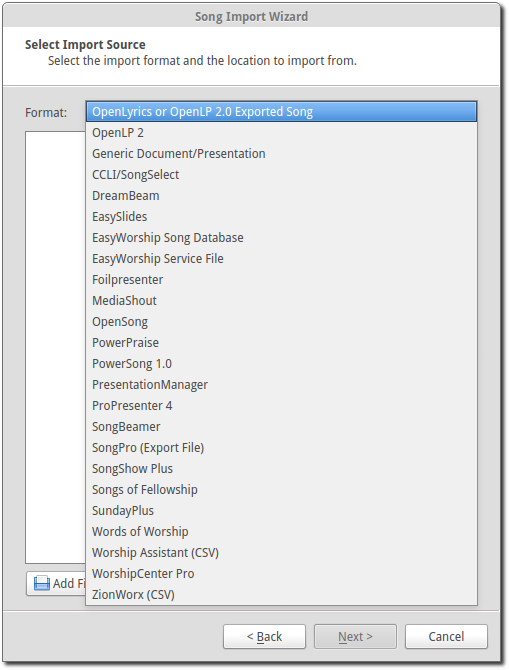
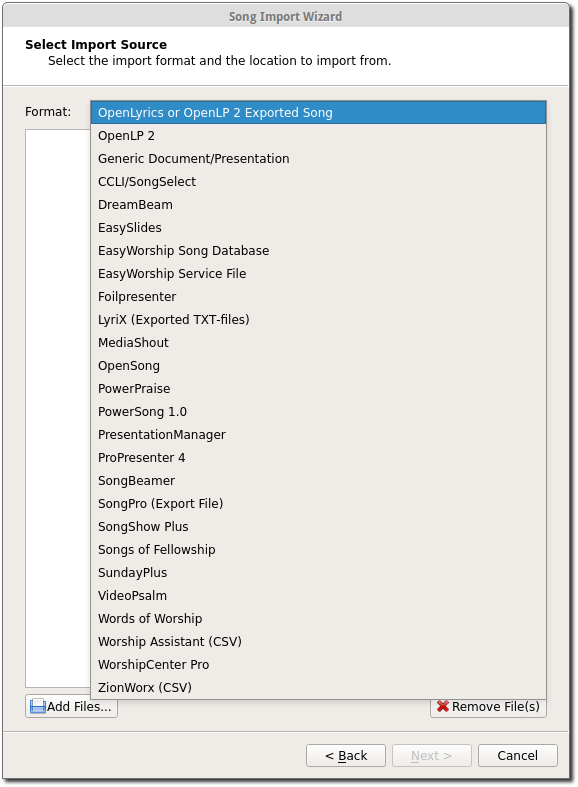
Updated song import docs

Changed region(s): [[0.0, 0.0, 1.0, 1.0]]

diff --git a/manual/source/songs.rst b/manual/source/songs.rst
@@ -14,6 +14,33 @@ Song Importer
 
 If you are using an earlier version of OpenLP or, come from another software 
 package, you may be able to convert your existing database to work in OpenLP.
+OpenLP can import songs from the following sources:
+
+* OpenLyrics or OpenLP 2 Exported Song
+* Generic Documents/Presentations (Requires LibreOffice)
+* CCLI SongSelect Files
+* DreamBeam Song Files
+* EasySlides XML File
+* EasyWorship 2009 Song Database
+* EasyWorship 2009 Service File
+* Foilpresenter Song Files
+* LyriX (Exported TXT-files)
+* MediaShout Database (Windows only)
+* PowerPraise Song Files'
+* PowerSong 1.0
+* PresentationManager Song Files
+* ProPresenter 4 Song Files
+* SongBeamer Files
+* SongPro (Export File)
+* SongShow Plus Song Files
+* Songs Of Fellowship Song Files (Requires LibreOffice)
+* SundayPlus Song Files
+* VideoPsalm Files
+* Words Of Worship Song Files
+* Worship Assistant (Export CSV)
+* WorshipCenter Pro Song Files (Windows only)
+* ZionWorx (Converted CSV)
+
 To access the Song Importer click :menuselection:`File --> Import --> Song`.
 You will see the Song Importer window, then click :guilabel:`Next`.
 
@@ -26,10 +53,10 @@ software that OpenLP will convert songs from.
 
 Click on the file folder icon to choose the file of the song database you
 want to import. See the following sections for information on some of the 
-different formats that OpenLP will import.
+different formats that OpenLP will import. Open
 
-Importing from OpenLyrics or OpenLP 2.0 Exported Song
-^^^^^^^^^^^^^^^^^^^^^^^^^^^^^^^^^^^^^^^^^^^^^^^^^^^^^
+Importing from OpenLyrics or OpenLP 2 Exported Song
+^^^^^^^^^^^^^^^^^^^^^^^^^^^^^^^^^^^^^^^^^^^^^^^^^^^
 
 OpenLyrics is an open format for song lyrics defined at `openlyrics.info
 <openlyrics.info>`_, and is the format the OpenLP can export songs to, see
